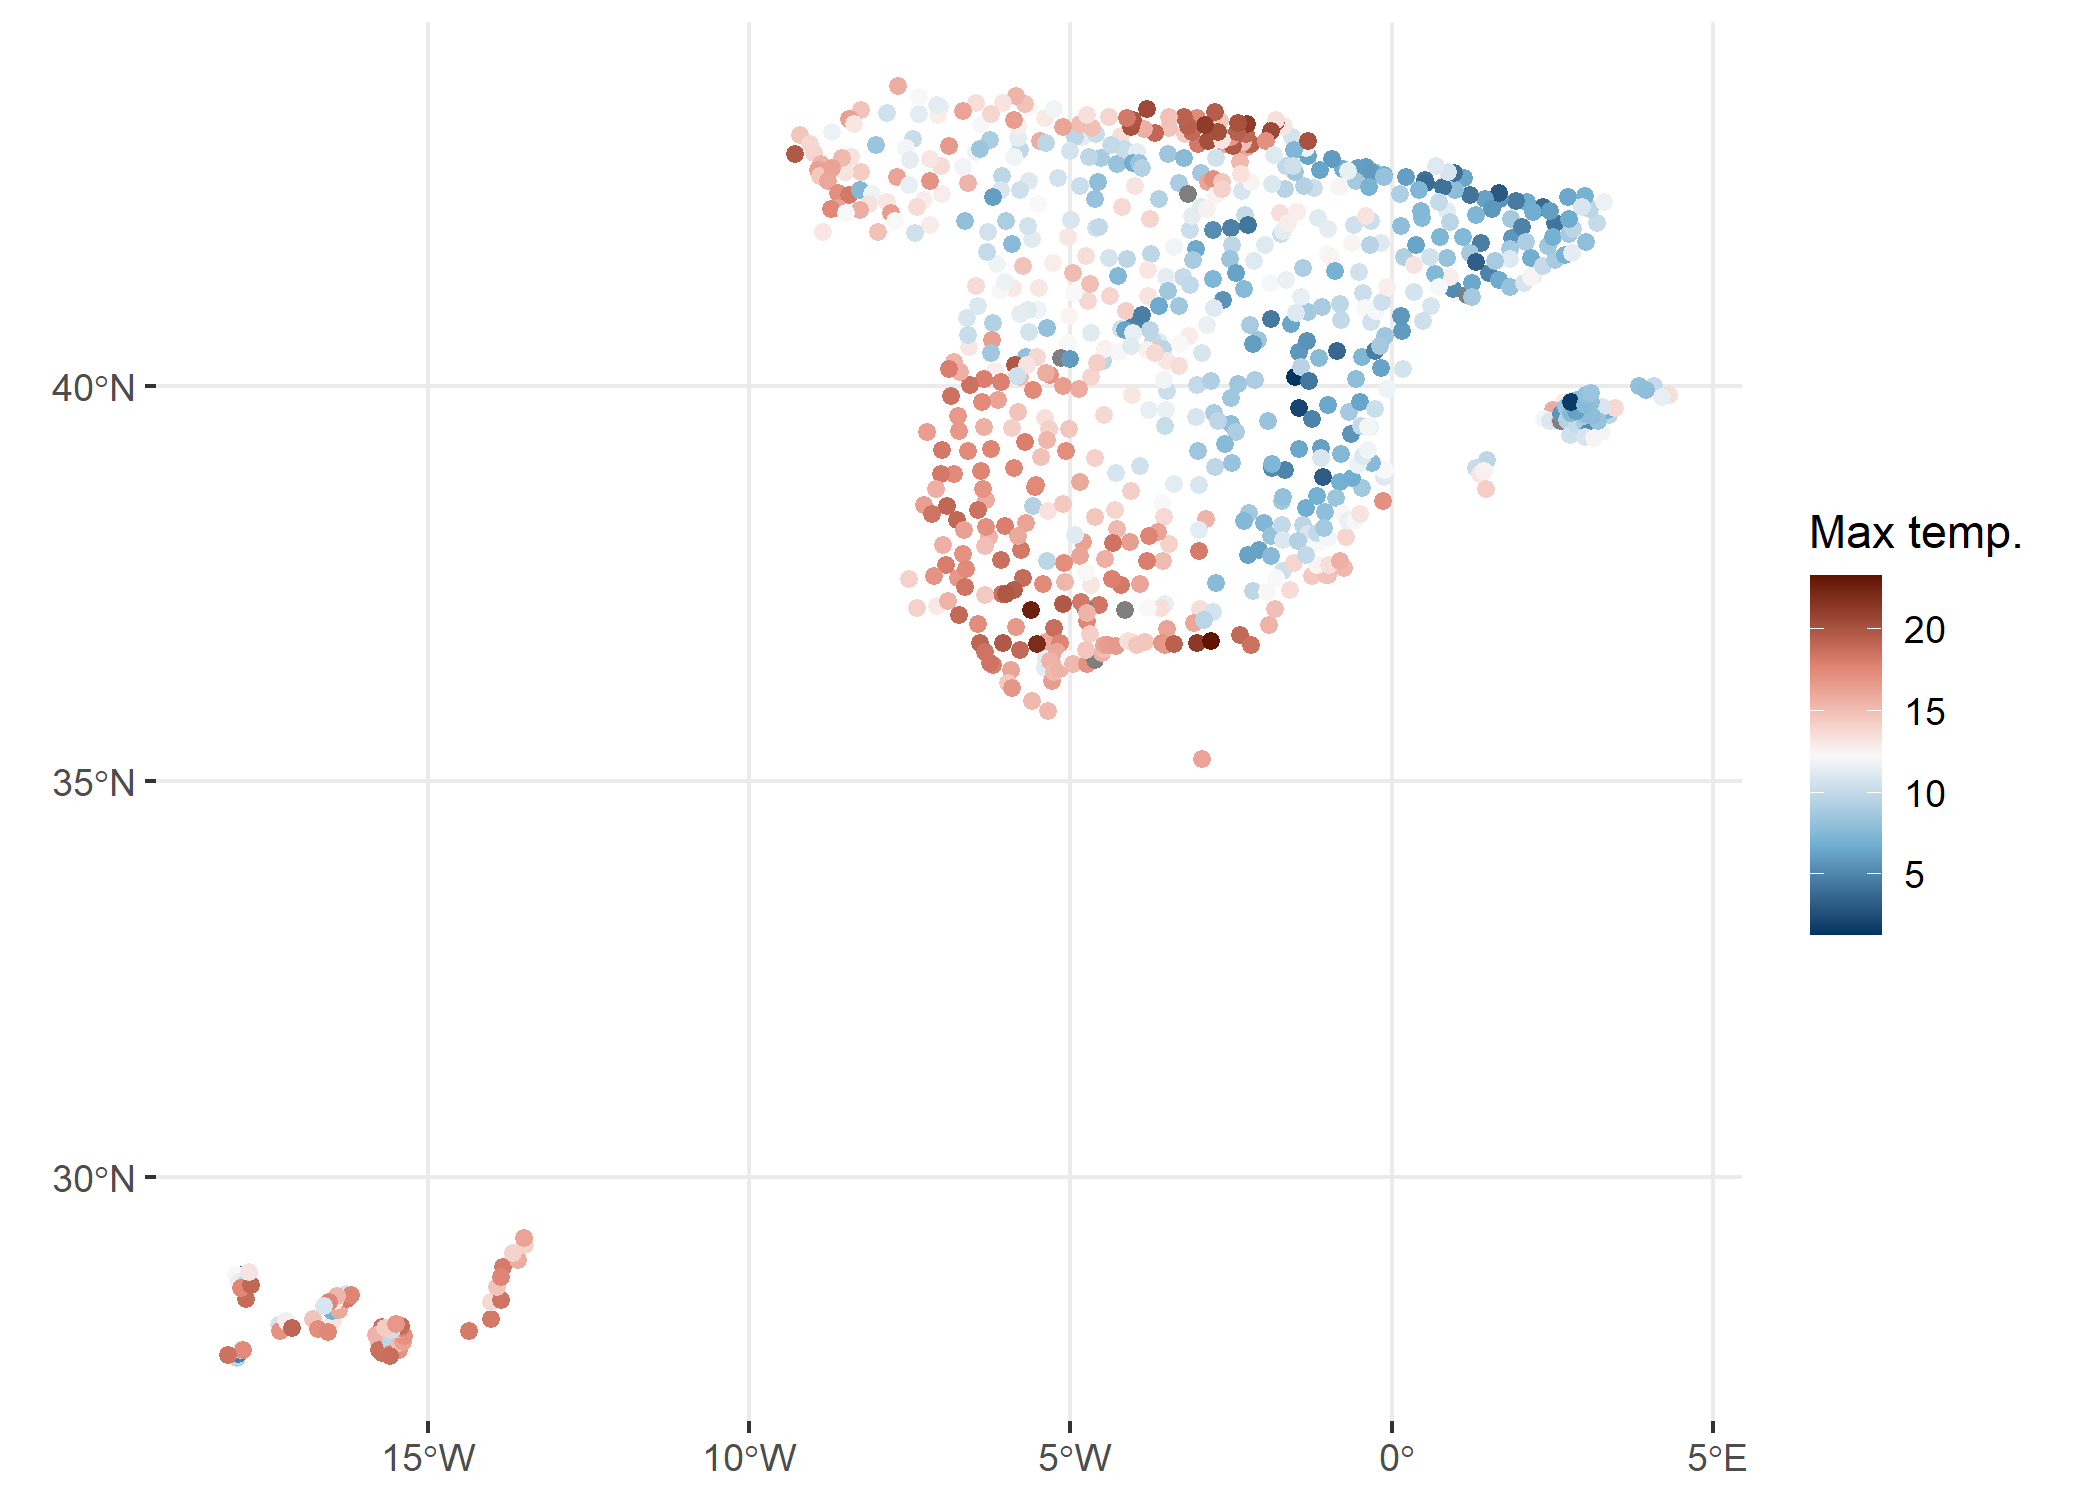
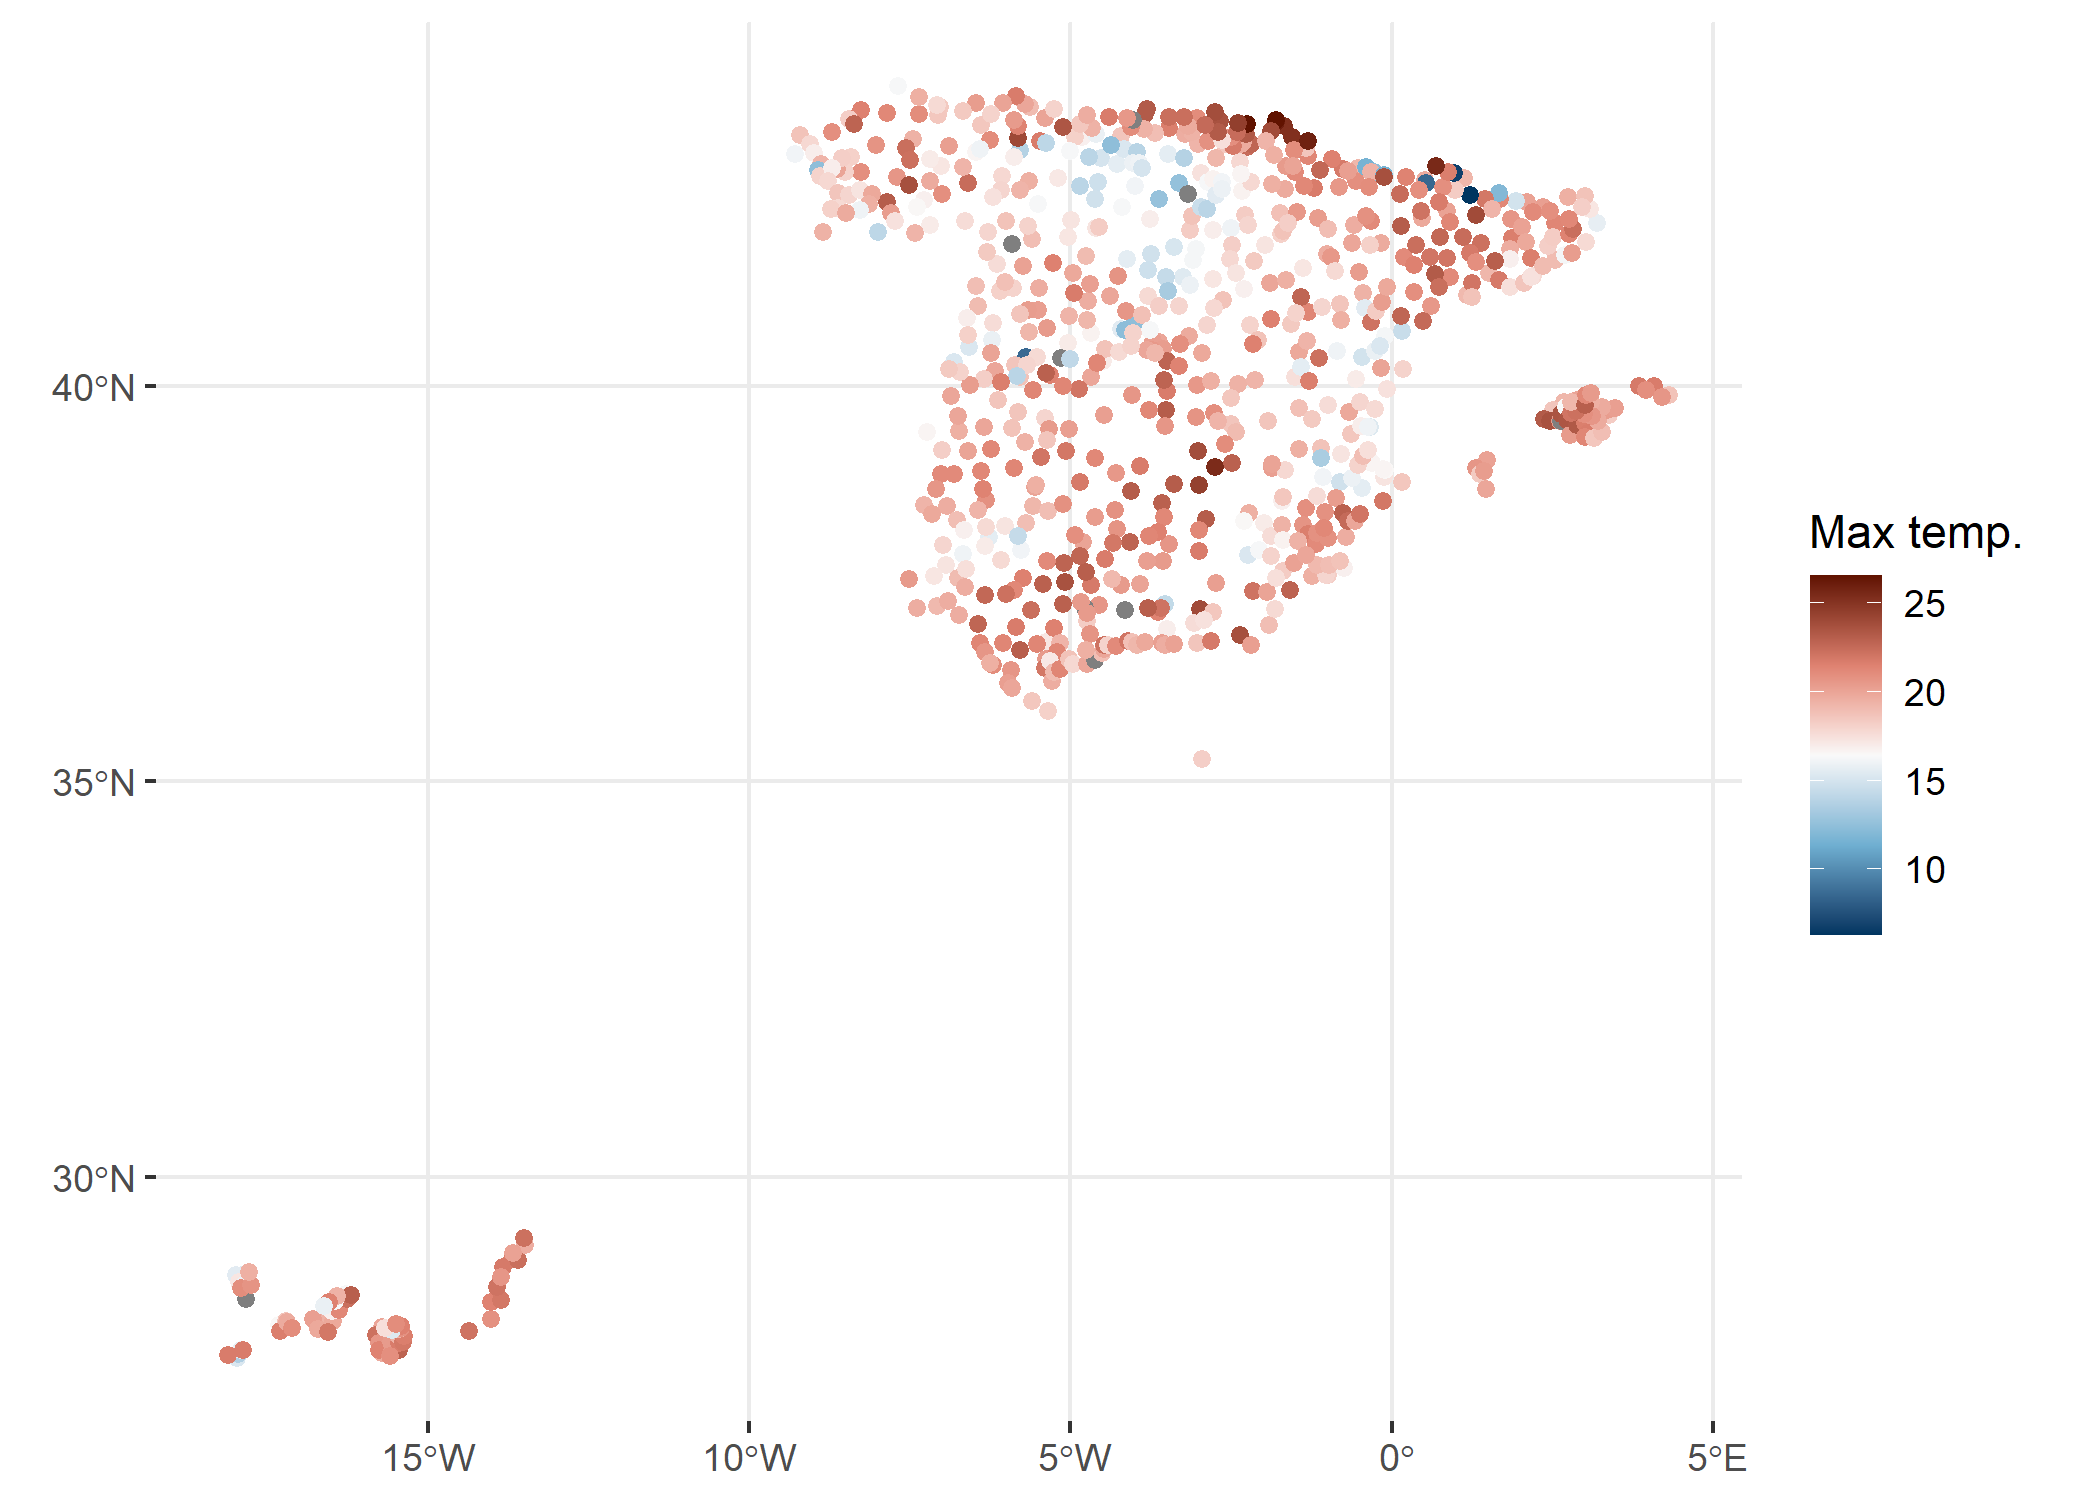
Cambios a partir del feedback de @mpizarrotig

diff --git a/README.md b/README.md
@@ -111,16 +111,16 @@ aemet_last_obs("9434")
 #> # A tibble: 23 x 25
 #>    idema   lon fint                 prec   alt  vmax    vv    dv   lat  dmax
 #>    <chr> <dbl> <dttm>              <dbl> <dbl> <dbl> <dbl> <dbl> <dbl> <dbl>
-#>  1 9434  -1.00 2021-03-31 00:00:00     0   249   2.6   1.5    89  41.7    85
-#>  2 9434  -1.00 2021-03-31 01:00:00     0   249   2.8   2.2   115  41.7   105
-#>  3 9434  -1.00 2021-03-31 02:00:00     0   249   3.2   1.8   103  41.7    80
-#>  4 9434  -1.00 2021-03-31 03:00:00     0   249   2.6   1.9   108  41.7   103
-#>  5 9434  -1.00 2021-03-31 04:00:00     0   249   2.1   1.2   186  41.7   128
-#>  6 9434  -1.00 2021-03-31 05:00:00     0   249   2.1   1.3   118  41.7   100
-#>  7 9434  -1.00 2021-03-31 06:00:00     0   249   2.1   1.7   124  41.7   118
-#>  8 9434  -1.00 2021-03-31 07:00:00     0   249   2.3   1.6   144  41.7   133
-#>  9 9434  -1.00 2021-03-31 08:00:00     0   249   3.2   2     118  41.7   135
-#> 10 9434  -1.00 2021-03-31 09:00:00     0   249   4.5   2     117  41.7    95
+#>  1 9434  -1.00 2021-04-01 12:00:00     0   249   9.1   5.8   107  41.7   120
+#>  2 9434  -1.00 2021-04-01 13:00:00     0   249   7.6   4.5   115  41.7   123
+#>  3 9434  -1.00 2021-04-01 14:00:00     0   249   6.7   2.4   111  41.7   133
+#>  4 9434  -1.00 2021-04-01 15:00:00     0   249   7.6   4.8   108  41.7   125
+#>  5 9434  -1.00 2021-04-01 16:00:00     0   249   8.1   4.4   109  41.7   128
+#>  6 9434  -1.00 2021-04-01 17:00:00     0   249   7.4   4     109  41.7   108
+#>  7 9434  -1.00 2021-04-01 18:00:00     0   249   9.5   3.7   111  41.7   123
+#>  8 9434  -1.00 2021-04-01 19:00:00     0   249   5.8   4.1   119  41.7   120
+#>  9 9434  -1.00 2021-04-01 20:00:00     0   249   7     2.6   113  41.7   128
+#> 10 9434  -1.00 2021-04-01 21:00:00     0   249   4.6   2.6    97  41.7   120
 #> # ... with 13 more rows, and 15 more variables: ubi <chr>, pres <dbl>,
 #> #   hr <dbl>, stdvv <dbl>, ts <dbl>, pres_nmar <dbl>, tamin <dbl>, ta <dbl>,
 #> #   tamax <dbl>, tpr <dbl>, stddv <dbl>, inso <dbl>, tss5cm <dbl>,
@@ -157,14 +157,14 @@ data_observation <- aemet_last_obs(station)
 knitr::kable(head(data_observation))
 ```
 
-| idema |       lon | fint                | prec | alt | vmax |  vv |  dv |      lat | dmax | ubi                 |  pres |  hr | stdvv |  ts | pres\_nmar | tamin |   ta | tamax | tpr | stddv | inso | tss5cm | pacutp | tss20cm |
-|:------|----------:|:--------------------|-----:|----:|-----:|----:|----:|---------:|-----:|:--------------------|------:|----:|------:|----:|-----------:|------:|-----:|------:|----:|------:|-----:|-------:|-------:|--------:|
-| 9434  | -1.004167 | 2021-03-31 00:00:00 |    0 | 249 |  2.6 | 1.5 |  89 | 41.66056 |   85 | ZARAGOZA AEROPUERTO | 996.0 |  50 |   0.4 | 9.9 |     1026.3 |  12.2 | 12.2 |  13.5 | 2.1 |    11 |    0 |   15.9 |      0 |    16.8 |
-| 9434  | -1.004167 | 2021-03-31 01:00:00 |    0 | 249 |  2.8 | 2.2 | 115 | 41.66056 |  105 | ZARAGOZA AEROPUERTO | 995.6 |  55 |   0.2 | 9.4 |     1026.1 |  11.0 | 11.0 |  12.2 | 2.3 |     5 |    0 |   15.4 |      0 |    16.6 |
-| 9434  | -1.004167 | 2021-03-31 02:00:00 |    0 | 249 |  3.2 | 1.8 | 103 | 41.66056 |   80 | ZARAGOZA AEROPUERTO | 995.1 |  57 |   0.3 | 9.0 |     1025.6 |  10.4 | 10.4 |  11.0 | 2.3 |     9 |    0 |   15.0 |      0 |    16.4 |
-| 9434  | -1.004167 | 2021-03-31 03:00:00 |    0 | 249 |  2.6 | 1.9 | 108 | 41.66056 |  103 | ZARAGOZA AEROPUERTO | 994.8 |  60 |   0.2 | 7.8 |     1025.4 |   9.8 |  9.8 |  10.4 | 2.5 |     5 |    0 |   14.5 |      0 |    16.2 |
-| 9434  | -1.004167 | 2021-03-31 04:00:00 |    0 | 249 |  2.1 | 1.2 | 186 | 41.66056 |  128 | ZARAGOZA AEROPUERTO | 994.8 |  60 |   0.2 | 6.6 |     1025.4 |   9.2 |  9.2 |   9.8 | 1.9 |    10 |    0 |   14.1 |      0 |    16.0 |
-| 9434  | -1.004167 | 2021-03-31 05:00:00 |    0 | 249 |  2.1 | 1.3 | 118 | 41.66056 |  100 | ZARAGOZA AEROPUERTO | 994.8 |  65 |   0.2 | 5.8 |     1025.5 |   8.6 |  8.6 |   9.2 | 2.5 |    12 |    0 |   13.7 |      0 |    15.8 |
+| idema |       lon | fint                | prec | alt | vmax |  vv |  dv |      lat | dmax | ubi                 |  pres |  hr | stdvv |   ts | pres\_nmar | tamin |   ta | tamax | tpr | stddv | inso | tss5cm | pacutp | tss20cm |
+|:------|----------:|:--------------------|-----:|----:|-----:|----:|----:|---------:|-----:|:--------------------|------:|----:|------:|-----:|-----------:|------:|-----:|------:|----:|------:|-----:|-------:|-------:|--------:|
+| 9434  | -1.004167 | 2021-04-01 12:00:00 |    0 | 249 |  9.1 | 5.8 | 107 | 41.66056 |  120 | ZARAGOZA AEROPUERTO | 987.2 |  34 |   0.8 | 21.9 |     1016.5 |  17.5 | 19.6 |  19.6 | 3.2 |    11 | 60.0 |   17.6 |      0 |    15.0 |
+| 9434  | -1.004167 | 2021-04-01 13:00:00 |    0 | 249 |  7.6 | 4.5 | 115 | 41.66056 |  123 | ZARAGOZA AEROPUERTO | 987.0 |  34 |   0.9 | 22.9 |     1016.1 |  19.6 | 21.0 |  21.0 | 4.5 |    10 | 57.6 |   18.6 |      0 |    15.2 |
+| 9434  | -1.004167 | 2021-04-01 14:00:00 |    0 | 249 |  6.7 | 2.4 | 111 | 41.66056 |  133 | ZARAGOZA AEROPUERTO | 986.1 |  31 |   0.7 | 24.6 |     1015.0 |  21.0 | 22.5 |  22.5 | 4.5 |    16 | 60.0 |   19.4 |      0 |    15.5 |
+| 9434  | -1.004167 | 2021-04-01 15:00:00 |    0 | 249 |  7.6 | 4.8 | 108 | 41.66056 |  125 | ZARAGOZA AEROPUERTO | 984.6 |  27 |   0.9 | 22.2 |     1013.5 |  22.5 | 22.5 |  23.5 | 2.5 |    10 | 31.2 |   19.9 |      0 |    15.9 |
+| 9434  | -1.004167 | 2021-04-01 16:00:00 |    0 | 249 |  8.1 | 4.4 | 109 | 41.66056 |  128 | ZARAGOZA AEROPUERTO | 984.0 |  27 |   0.9 | 25.3 |     1012.7 |  22.3 | 24.0 |  24.0 | 3.8 |    18 | 25.4 |   19.4 |      0 |    16.2 |
+| 9434  | -1.004167 | 2021-04-01 17:00:00 |    0 | 249 |  7.4 | 4.0 | 109 | 41.66056 |  108 | ZARAGOZA AEROPUERTO | 984.3 |  28 |   0.8 | 23.2 |     1013.1 |  23.5 | 23.5 |  24.2 | 3.9 |    10 | 46.4 |   19.7 |      0 |    16.5 |
 
 ``` r
 ## Get daily/annual climatology values for a station
@@ -223,6 +223,8 @@ a weather station. These functions returns `ggplot2` plots:
 climatestripes_station("9434", start = 1980, end = 2020)
 ```
 
+<img src="man/figures/README-climatestripes-1.png" width="100%" />
+
 Furthermore, we can draw the well-known Walter & Lieth climatic diagram
 for a weather station and over a specified period of time:
 
@@ -270,7 +272,10 @@ all_last <-
   all_stations %>% filter(fint == all_stations[["fint"]][1])
 
 ggplot(all_last) +
-  geom_sf(aes(col = ta, stroke = 0), shape = 19, size = 2) +
+  geom_sf(aes(col = ta, stroke = 0, geometry = geometry),
+    shape = 19,
+    size = 2
+  ) +
   labs(col = "Max temp.") +
   scale_colour_gradientn(colours = hcl.colors(5, "RdBu", rev = TRUE)) +
   theme_bw() +
